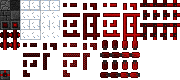
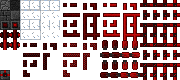
Add files via upload

Changed region(s): [[0.7778, 0.775, 1.0, 1.0], [0.7778, 0.625, 1.0, 0.75], [0.7778, 0.5, 1.0, 0.6]]

diff --git a/block.py b/block.py
@@ -4,15 +4,13 @@ import pygame
 pygame.init()
 
 def get_data(type_):
-    if type_ == "wire":
-        return({"activated" : 0})
-    elif type_ == "activator":
+    if type_ == "wire" or type_ == "activator":
         return({"activated" : 0})
     elif type_ == "NOT":
         return({"activated" : 0, "rotate" : 0})
     elif type_ == "wire box":
         return({"activated1" : 0, "activated2" : 0})#горизонтальный, вертикальный
-    elif type_ == "AND":
+    elif type_ == "AND" or type_ == "XOR":
         return({"activated1" : 0, "activated2" : 0, "activated" : 0, "rotate" : 0})#левый относительно выхода, правый относительно выхода
     else:
         return({})
@@ -47,20 +45,22 @@ class Block():
                 if self.border(pos):
                     see[i] = self.is_block_connect_with_wire(i)
             self.image = get_wire_image(self.data, see)
-        elif self.type == "activator":
+        elif self.type == "activator":#активатор
             self.image = get_activator_image(self.data)
-        elif self.type == "block":
+        elif self.type == "block":#кирпич
             self.image = get_image(0, 1)
-        elif self.type == "NOT":
+        elif self.type == "NOT":#логический вентиль NOT
             i = 0
             front_pos = self.get_rotate_position(self.data["rotate"])
             if self.border(front_pos):
                 i = self.is_block_connect_with_wire(self.data["rotate"])
             self.image = get_NOT_image(self.data, [i, 0, 0, 0])
-        elif self.type == "wire box":
+        elif self.type == "wire box":#распределительная коробка
             self.image = get_wire_box_image(self.data)
-        elif self.type == "AND":
+        elif self.type == "AND":#логический вентиль AND
             self.image = get_AND_image(self.data)
+        elif self.type == "XOR":#логический вентиль XOR
+            self.image = get_XOR_image(self.data)
         if self.glassed:
             see = [0, 0, 0, 0]
             for i in range(4):
@@ -88,7 +88,7 @@ class Block():
                 behind_block = self.world.field[behind_pos[0]][behind_pos[1]]
                 if behind_block.type == "wire" or behind_block.type == "activator":#считываем сигнал с провода или активатора
                     i = behind_block.data["activated"]
-                elif (behind_block.type == "NOT" or behind_block.type == "AND") and behind_block.data["rotate"] == self.data["rotate"]:#считываем сигнал с логических вентилей
+                elif (behind_block.type == "NOT" or behind_block.type == "AND" or behind_block.type == "XOR") and behind_block.data["rotate"] == self.data["rotate"]:#считываем сигнал с логических вентилей
                     i = behind_block.data["activated"]
                 elif behind_block.type == "wire box":#считываем сигнал с распределительной коробки
                     if self.data["rotate"] == 0 or self.data["rotate"] == 2:#вверху - внизу
@@ -97,8 +97,7 @@ class Block():
                         i = behind_block.data["activated1"]
             #активация
             self.data["activated"] = not i
-            if not i == 1:
-                self.active = 1
+            self.active = not i
             #распространение сигнала
             if self.border(front_pos):
                 front_block = self.world.field[front_pos[0]][front_pos[1]]
@@ -113,7 +112,7 @@ class Block():
                         elif self.data["rotate"] == 1 or self.data["rotate"] == 3:#влево - вправо
                             front_block.data["activated1"] = self.data["activated"]
                             front_block.update({"rotate" : self.data["rotate"]})
-        elif self.type == "AND":#и
+        elif self.type == "AND" or self.type == "XOR":#и, или
             if not enr:
                 left_pos = self.get_rotate_position((self.data["rotate"] - 1) % 4)
                 right_pos = self.get_rotate_position((self.data["rotate"] + 1) % 4)
@@ -130,7 +129,7 @@ class Block():
                             in1 = left_block.data["activated2"]
                         elif r == 3 or r == 1:#влево - вправо
                             in1 = left_block.data["activated1"]
-                    elif (left_block.type == "NOT" or left_block.type == "AND") and left_block.data["rotate"] == (r + 2) % 4:#считываем сигнал с логических вентилей
+                    elif (left_block.type == "NOT" or left_block.type == "AND" or left_block.type == "XOR") and left_block.data["rotate"] == (r + 2) % 4:#считываем сигнал с логических вентилей
                         in1 = left_block.data["activated"]
                 #правый вход
                 if self.border(right_pos):
@@ -143,12 +142,15 @@ class Block():
                             in2 = right_block.data["activated2"]
                         elif r == 3 or r == 1:#влево - вправо
                             in2 = right_block.data["activated1"]
-                    elif (right_block.type == "NOT" or right_block.type == "AND") and right_block.data["rotate"] == (r + 2) % 4:#считываем сигнал с логических вентилей
+                    elif (right_block.type == "NOT" or right_block.type == "AND" or right_block.type == "XOR") and right_block.data["rotate"] == (r + 2) % 4:#считываем сигнал с логических вентилей
                         in2 = right_block.data["activated"]
                 #активация
-                self.data["activated"] = in1 and in2
-                if (in1 and in2) == 1:
-                    self.active = 1
+                if self.type == "AND":
+                    self.data["activated"] = in1 and in2
+                    self.active = in1 and in2
+                elif self.type == "XOR":
+                    self.data["activated"] = in1 ^ in2
+                    self.active = in1 ^ in2
                 self.data["activated1"] = in1
                 self.data["activated2"] = in2
             #распространение сигнала
@@ -195,4 +197,4 @@ class Block():
     def is_block_connect_with_wire(self, rotate):
         pos = self.get_rotate_position(rotate)
         b = self.world.field[pos[0]][pos[1]]
-        return(b.type == "wire" or b.type == "activator" or (b.type == "NOT" and (b.data["rotate"] == rotate or (b.data["rotate"] + 2) % 4 == rotate)) or b.type == "wire box" or (b.type == "AND" and b.data["rotate"] != rotate))
+        return(b.type == "wire" or b.type == "activator" or (b.type == "NOT" and (b.data["rotate"] == rotate or (b.data["rotate"] + 2) % 4 == rotate)) or b.type == "wire box" or ((b.type == "AND" or b.type == "XOR") and b.data["rotate"] != rotate))

diff --git a/world.py b/world.py
@@ -43,6 +43,8 @@ class World:
             self.select_block = "wire box"
         elif keys[pygame.K_6]:
             self.select_block = "AND"
+        elif keys[pygame.K_7]:
+            self.select_block = "XOR"
         # поворот блока
         if keys[pygame.K_r]:
             if self.r_tag == 0:
@@ -70,7 +72,7 @@ class World:
                     if self.field[blockpos[0]][blockpos[1]].glassed == 0:
                         self.timer = 0
                         self.field[blockpos[0]][blockpos[1]] = Block(self, blockpos, self.select_block)
-                        if self.select_block == "NOT" or self.select_block == "AND":
+                        if self.select_block == "NOT" or self.select_block == "AND" or self.select_block == "XOR":
                             self.field[blockpos[0]][blockpos[1]].data["rotate"] = self.select_rotate
                         self.change_image()
                         self.mousetag = 1
@@ -92,11 +94,9 @@ class World:
                     self.change_image()
 
         if self.timer == 0:
-            for x in range(self.w):#стираем active
+            for x in range(self.w):#стираем active и электричество
                 for y in range(self.h):
                     self.field[x][y].active = 0
-            for x in range(self.w):#стираем электричество
-                for y in range(self.h):
                     if self.field[x][y].type == "wire":
                         self.field[x][y].data["activated"] = 0
                     elif self.field[x][y].type == "wire box":
@@ -104,12 +104,12 @@ class World:
                         self.field[x][y].data["activated2"] = 0
             for x in range(self.w):#распространение электричества
                 for y in range(self.h):
-                    if self.field[x][y].type == "activator" or self.field[x][y].type == "NOT" or self.field[x][y].type == "AND":
+                    if self.field[x][y].type == "activator" or self.field[x][y].type == "NOT" or self.field[x][y].type == "AND" or self.field[x][y].type == "XOR":
                         if self.field[x][y].data["activated"] == 1:
                             self.field[x][y].update()
             for x in range(self.w):#активация логических вентилей
                 for y in range(self.h):
-                    if self.field[x][y].type == "NOT" or self.field[x][y].type == "AND":
+                    if self.field[x][y].type == "NOT" or self.field[x][y].type == "AND" or self.field[x][y].type == "XOR":
                         self.field[x][y].update(self.field[x][y].data, enr=0)
             #gates = 1
             #while gates > 0:#активация логических вентилей

diff --git a/image_factory.py b/image_factory.py
@@ -31,6 +31,9 @@ def get_wire_box_image(data):
 def get_AND_image(data):
     return(get_image(14 + data["activated1"] + data["activated2"] * 2, data["rotate"]))
 
+def get_XOR_image(data):
+    return(get_image(14 + data["activated1"] + data["activated2"] * 2, 4 + data["rotate"]))
+
 def get_block_image(sftype, neighbours, data):
     if sftype == "wire":
         return(get_wire_image(data, neighbours))
@@ -44,6 +47,8 @@ def get_block_image(sftype, neighbours, data):
         return(get_wire_box_image(data))
     elif sftype == "AND":
         return(get_AND_image(data))
+    elif sftype == "XOR":
+        return(get_XOR_image(data))
     elif sftype == "air":
         img = pygame.Surface((40, 40))
         img.set_colorkey((0, 0, 0))
